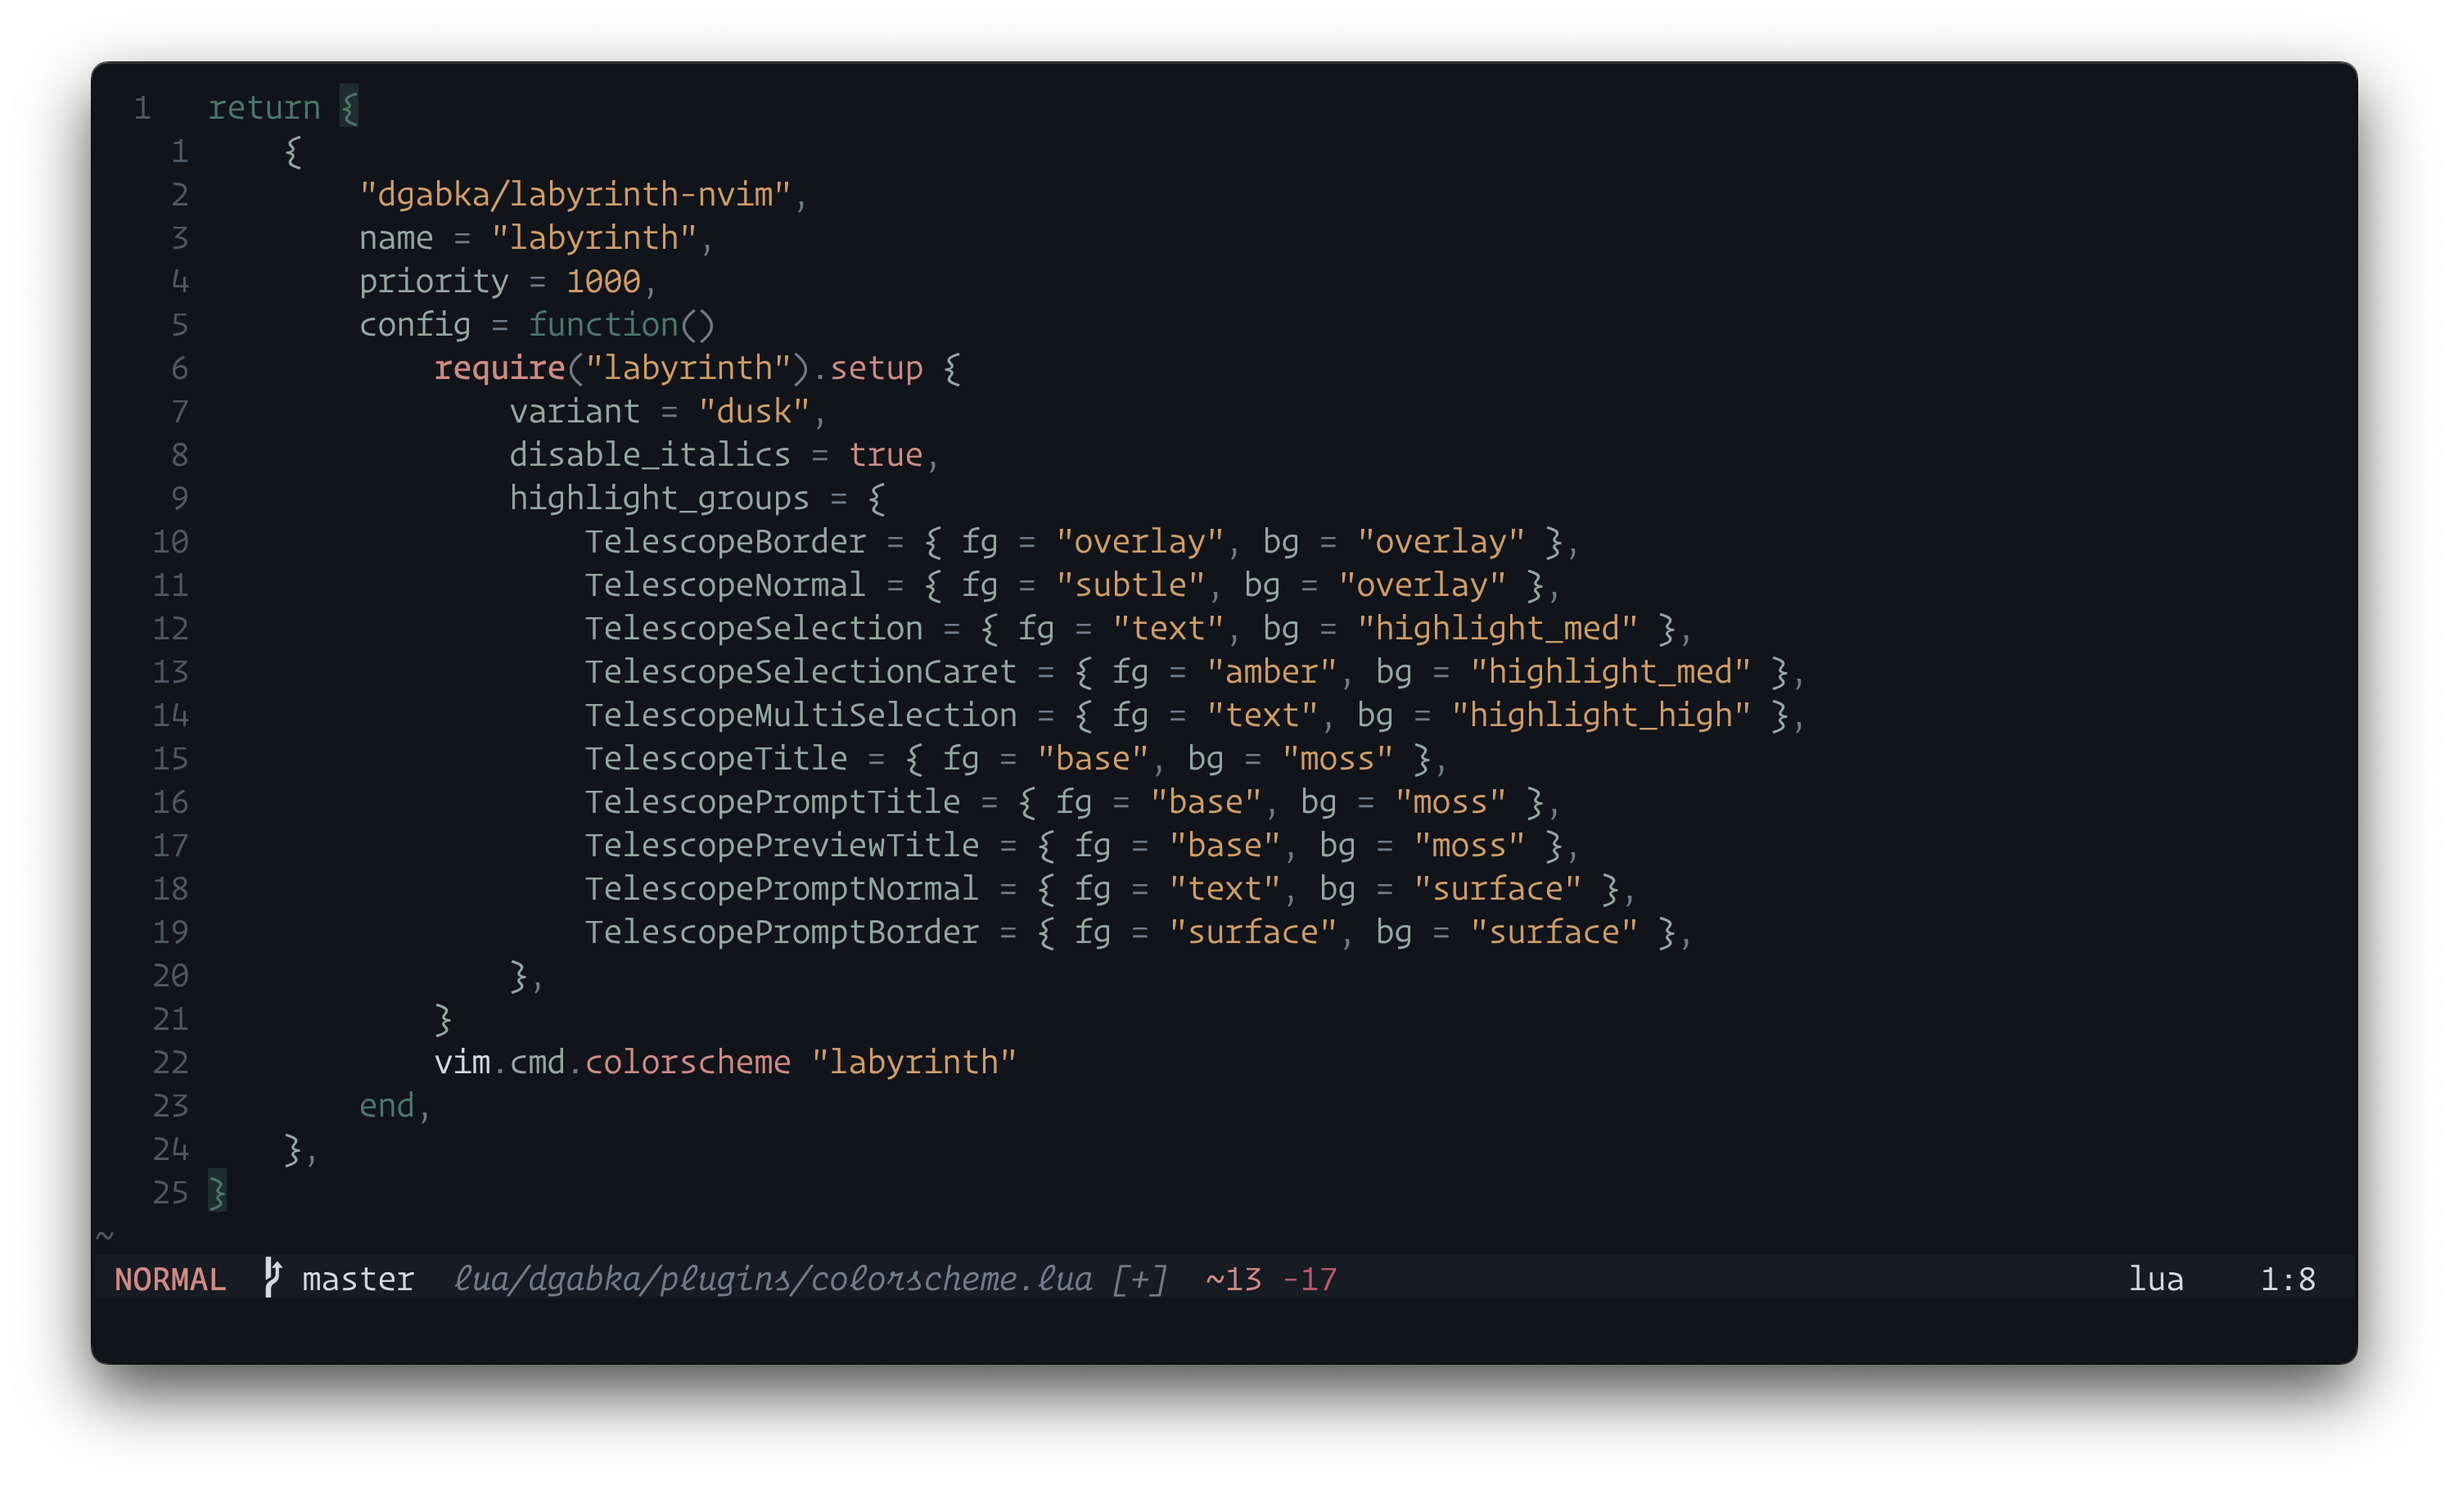
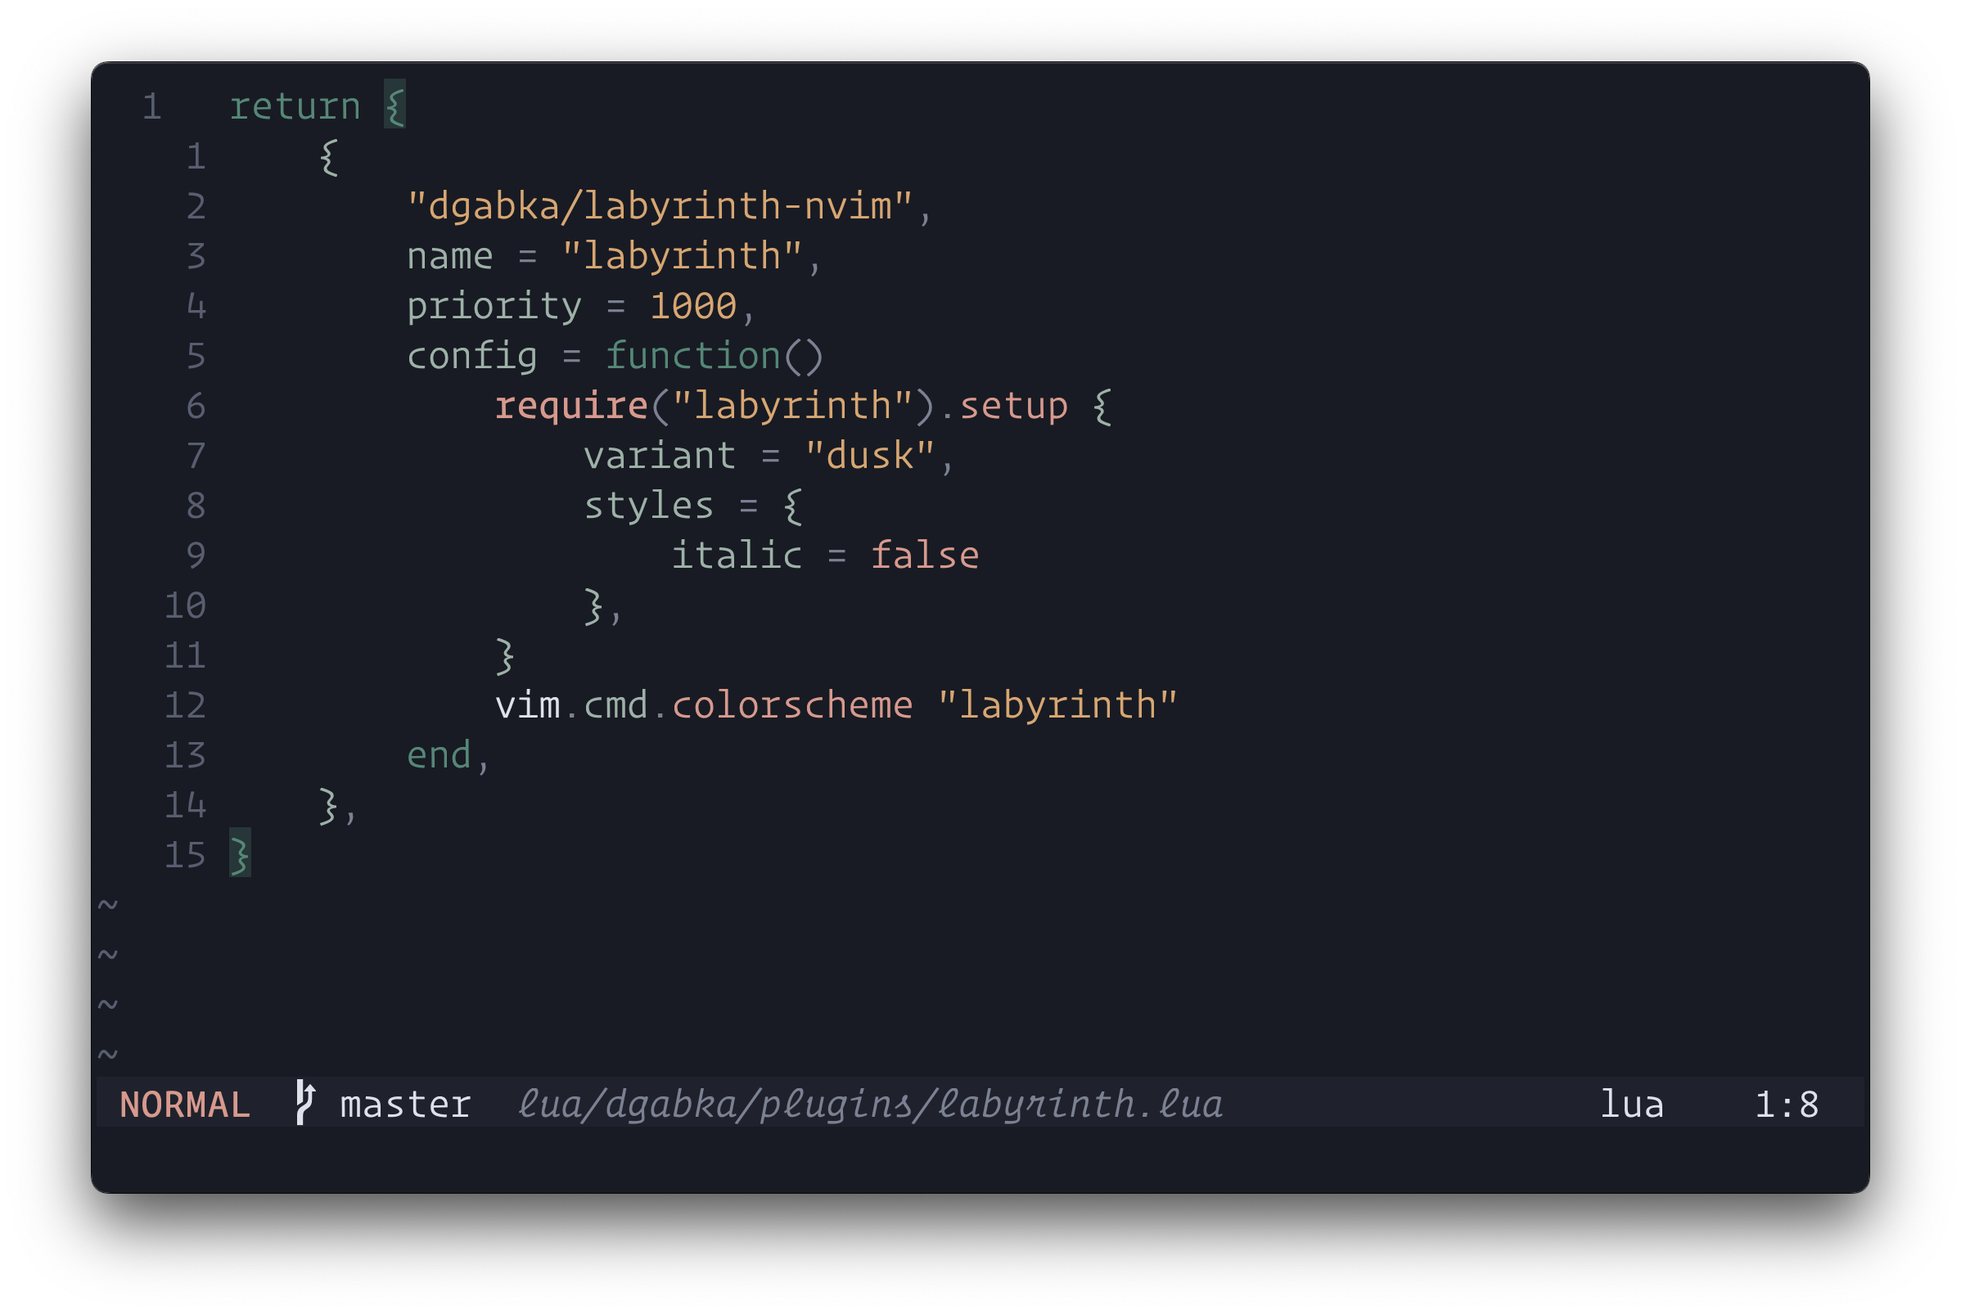
add new variants

diff --git a/README.md b/README.md
@@ -1,44 +1,64 @@
-# Labyrinth
+# 🌿 Labyrinth
 
 Discover Labyrinth, a serene color scheme inspired by hidden pathways and mossy landscapes. Let its gentle tones guide your creativity with calm elegance.
+
+Labyrinth provides four distinct variants with varying levels of contrast and color vibrancy to suit your preferences:
+
+ - Dusk: The most contrasty variant, perfect for those who prefer sharp distinctions and vibrant colors.
+ - Shade: A balanced variant, offering a comfortable middle ground with moderate contrast and vibrancy.
+ - Gloom: A softer variant with reduced contrast, ideal for a more subdued and relaxed visual experience.
+ - Mist: The least contrasty variant, featuring the most gentle and subtle tones for a calm and unobtrusive interface.
+
+Whether you're coding, designing, or simply exploring new aesthetics, Labyrinth adapts to your needs with its harmonious palette.
 
 ## Getting started
 
 Install `dgabka/labyrinth-nvim` using your favourite plugin manager:
 
-**paq-nvim**
-
-```lua
-{ "dgabka/labyrinth-nvim", as = "labyrinth" }
-```
-
 **lazy.nvim**
 
 ```lua
-{ "dgabka/labyrinth-nvim", name = "labyrinth" }
+{
+    "dgabka/labyrinth-nvim",
+    name = "labyrinth",
+    priority = 1000,
+    config = function()
+        require("labyrinth").setup {
+            variant = "shade", -- or gloom or dusk or mist
+        }
+        vim.cmd.colorscheme "labyrinth"
+    end,
+}
 ```
 
 ## Gallery
 
+**Labyrinth Gloom**
+
+![Neovim with Labyrinth Gloom](assets/gloom.png)
+
 **Labyrinth Dusk**
 
-![Labyrinth Dusk with Neovim](assets/dusk.png)
+![Neovim with Labyrinth Dusk](assets/dusk.png)
 
 **Labyrinth Shade**
 
-![Labyrinth Shade with Neovim](assets/shade.png)
+![Neovim with Labyrinth Shade](assets/shade.png)
+
+**Labyrinth Mist**
+
+![Neovim with Labyrinth Mist](assets/mist.png)
 
 ## Options
 
 > [!IMPORTANT]
 > Configure options _before_ setting colorscheme.
 
-Labyrinth has two variants: dusk and shade. By default, `vim.o.background` is followed, using dawn when light and `dark_variant` when dark.
+Labyrinth has four variants: gloom, dusk, shade and mist. Defaults to dusk.
 
 ```lua
 require("labyrinth").setup({
-    variant = "auto", -- auto, dusk or shade
-    dark_variant = "dusk", -- dusk or shade
+    variant = "dusk", -- gloom, dusk, shade or mist - defaults to dusk
     dim_inactive_windows = false,
     extend_background_behind_borders = true,
 
@@ -104,6 +124,9 @@ require("labyrinth").setup({
 })
 
 vim.cmd("colorscheme labyrinth")
--- vim.cmd("colorscheme labyrinth-shade")
--- vim.cmd("colorscheme labyrinth-dusk")
 ```
+
+### Credits
+
+Thanks to the [Rosé Pine](https://github.com/rose-pine) creators!
+A special thanks to [Rosé Pine for Neovim](https://github.com/rose-pine/neovim) which this theme is based on.
